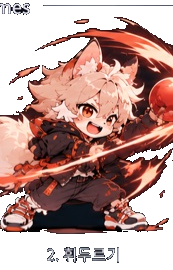
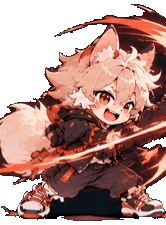
prototype v0.6.1: clean re-cut of Tobi animation frames (no neighbor bleed, no title/number artifacts)

diff --git a/game.js b/game.js
@@ -31,15 +31,15 @@ function loadSprite(key, src) {
   img.onerror = () => { sprLoaded++; };
   img.src = src; SPR[key] = img;
 }
-const ASSET_V = 'v=0.6.0';
+const ASSET_V = 'v=0.6.1';
 loadSprite('tobi', 'assets/tobi-battle.png?' + ASSET_V);
 loadSprite('lumi', 'assets/lumi-battle.png?' + ASSET_V);
 // 토비 애니메이션 프레임
 for (let i = 0; i < 4; i++) loadSprite('tobi-walk-' + i, `assets/tobi-walk-${i}.png?` + ASSET_V);
 for (let i = 0; i < 3; i++) loadSprite('tobi-atk-' + i, `assets/tobi-atk-${i}.png?` + ASSET_V);
 const CHAR_ANIM = {
-  tobi: { walk: ['tobi-walk-0', 'tobi-walk-1', 'tobi-walk-2', 'tobi-walk-3'],
-          atk: ['tobi-atk-0', 'tobi-atk-1', 'tobi-atk-2'] },
+  tobi: { walk: [['tobi-walk-0', 0.786], ['tobi-walk-1', 0.725], ['tobi-walk-2', 0.733], ['tobi-walk-3', 0.746]],
+          atk: [['tobi-atk-0', 0.768], ['tobi-atk-1', 0.738], ['tobi-atk-2', 0.863]] },
   // lumi: 시트 오는 대로 추가
 };
 loadSprite('enemy-ticket', 'assets/enemy-ticket.png?' + ASSET_V);
@@ -1144,15 +1144,18 @@ function drawPlayer() {
   const anim = CHAR_ANIM[G.char];
   let sprKey = G.char, sw = 76, sh = 76;
   if (anim) {
+    sh = 104;
+    let asp;
     if (p.atkT > 0) {
       const f = Math.min(2, Math.floor((0.32 - p.atkT) / 0.32 * 3));
-      sprKey = anim.atk[f]; sw = 67; sh = 104;
+      [sprKey, asp] = anim.atk[f];
     } else if (p.moving) {
       const f = Math.floor(G.time * 9) % 4;
-      sprKey = anim.walk[f]; sw = 58; sh = 104;
+      [sprKey, asp] = anim.walk[f];
     } else {
-      sprKey = anim.walk[1]; sw = 58; sh = 104; // idle
+      [sprKey, asp] = anim.walk[1]; // idle
     }
+    sw = Math.round(sh * asp);
   }
   const pspr = sprFor(sprKey, sw, sh);
   ctx.save(); ctx.translate(p.x, p.y); ctx.scale(p.face, 1);
@@ -1171,11 +1174,13 @@ function drawPartner() {
   const anim = CHAR_ANIM[pt.char];
   let sprKey = pt.char, sw = 52, sh = 52;
   if (anim) {
+    sh = 72;
+    let asp;
     if (G.player.moving) {
       const f = Math.floor(G.time * 9) % 4;
-      sprKey = anim.walk[f];
-    } else sprKey = anim.walk[1];
-    sw = 40; sh = 72;
+      [sprKey, asp] = anim.walk[f];
+    } else [sprKey, asp] = anim.walk[1];
+    sw = Math.round(sh * asp);
   }
   const pspr = sprFor(sprKey, sw, sh);
   ctx.save(); ctx.translate(pt.x, pt.y); ctx.scale(G.player.face, 1);

diff --git a/index.html b/index.html
@@ -66,6 +66,6 @@
   <button id="btn-clear-retry">다시 도전</button>
 </div>
 
-<script src="game.js?v=0.6.0"></script>
+<script src="game.js?v=0.6.1"></script>
 </body>
 </html>
